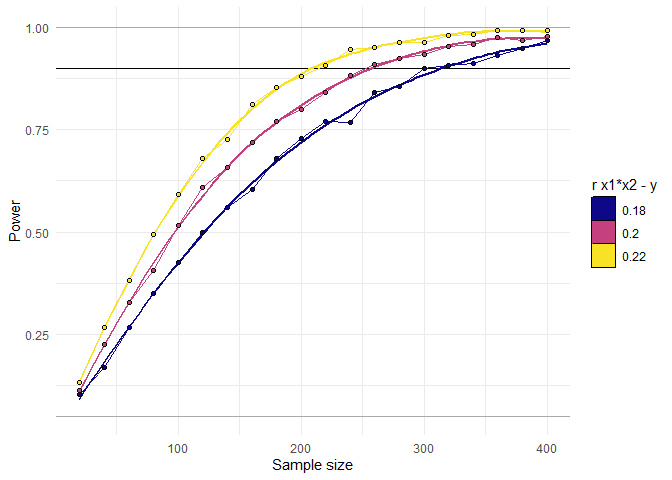
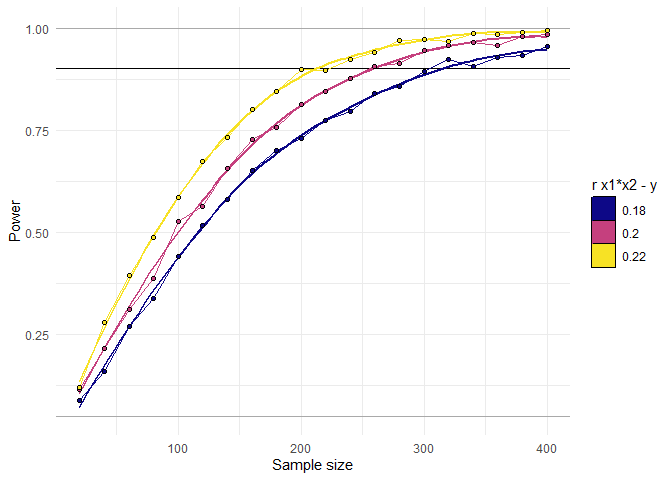
typos

diff --git a/README.md b/README.md
@@ -52,7 +52,6 @@ library(tictoc)
 tic()
 test_power<-power_interaction(
   n.iter = 1000,            # number of simulations per unique combination of input parameters
- # cl = 6,                   # number of cores for parallel processing (strongly recommended)
   alpha = 0.05,             # alpha, for the power analysis
   N = 350,                  # sample size
   r.x1x2.y = .15,           # interaction effect to test (correlation between x1*x2 and y)
@@ -62,24 +61,11 @@ test_power<-power_interaction(
 )
 #> [1] "Checking for errors in inputs..."
 #> [1] "Performing 1000 simulations"
-#> 
-#> Attaching package: 'dplyr'
-#> The following objects are masked from 'package:stats':
-#> 
-#>     filter, lag
-#> The following objects are masked from 'package:base':
-#> 
-#>     intersect, setdiff, setequal, union
-#> 
-#> Attaching package: 'MASS'
-#> The following object is masked from 'package:dplyr':
-#> 
-#>     select
 toc()
-#> 17.08 sec elapsed
+#> 15.2 sec elapsed
 test_power
 #>     pwr     min.lwr   min.upr   max.lwr   max.upr
-#> 1 0.802 -0.07739429 0.1942745 0.1966897 0.4550815
+#> 1 0.828 -0.08363714 0.2013017 0.1936626 0.4681784
 ```
 
 We see that we have \~80% power to detect the effect of interest.
@@ -152,7 +138,7 @@ test_power<-power_interaction(
 #> [1] "Checking for errors in inputs..."
 #> [1] "Performing 60000 simulations"
 toc()
-#> 237.32 sec elapsed
+#> 218.79 sec elapsed
 ```
 
 The results of this analysis can be hard to interpret just by looking at
@@ -172,9 +158,9 @@ power\_curve for each interaction effect size crosses our 90% line:
 ``` r
 power_estimate(test_power,power_target = .9,x = "N")
 #>   r.x1x2.y estimate
-#> 1     0.18 313.3005
-#> 2     0.20 248.2695
-#> 3     0.22 208.0945
+#> 1     0.18 309.3075
+#> 2     0.20 249.6749
+#> 3     0.22 206.3517
 ```
 
 We can see that depending on the specific effect size we hope to detect,
@@ -207,7 +193,7 @@ test_power<-power_interaction(
 #> [1] "Checking for errors in inputs..."
 #> [1] "Performing 14000 simulations"
 toc()
-#> 78.61 sec elapsed
+#> 86.05 sec elapsed
 ```
 
 As with the previous example, the results of this analysis can be hard
@@ -224,7 +210,7 @@ power\_curve for each interaction effect size crosses our 90% line:
 
 ``` r
 power_estimate(test_power,power_target = .9,x = "r.x1x2.y")
-#> [1] 0.1488084
+#> [1] 0.1478414
 ```
 
 We can use the function `plot_simple_slope()` to visualize the
@@ -255,7 +241,7 @@ library(tictoc)
 tic()
 
 test_power<-power_interaction(
-  n.iter = 10000,                  # number of simulations per unique combination of input parameters
+  n.iter = 1000,                  # number of simulations per unique combination of input parameters
   cl = 6,                   # number of cores for parallel processing (strongly recommended)
   alpha = 0.05,             # alpha, for the power analysis
   N = 450,                  # sample size
@@ -264,12 +250,12 @@ test_power<-power_interaction(
   r.x2.y = .1,              # correlation between x2 and y
   r.x1.x2 = .2,             # correlation between x1 and x2
   rel.x1 = seq(.4,1,.1),    # x1 reliability
-  rel.x2 = seq(.4,1,.1)     # x2 reliability
+  rel.x2 = seq(.4,1,.2)     # x2 reliability
 )
 #> [1] "Checking for errors in inputs..."
-#> [1] "Performing 490000 simulations"
+#> [1] "Performing 28000 simulations"
 toc()
-#> 2920.34 sec elapsed
+#> 157.92 sec elapsed
 plot_power_curve(test_power,power_target = .9)
 ```
 
@@ -284,21 +270,22 @@ that we have 90% power.
 
 So far, these examples have assumed that all variables are normally
 distributed. It is also possible to specify that a variable is binary
-(i.e. dichotomous), and variables can be skewed as well. By default, it
-is assumed that the specified correlations between variables are the
-population-level correlations of the *skewed* or *binary* variables
-(i.e. `adjust.correlations = T`). The ‘adjustment’ here is how much each
-correlation needs to be changed, so that the resulting correlation
-matrix post-variable-transformation matches the input correlation matrix
-(transforming a variable typically attenuates correlations with other
-variables, which can result in the analysis confounding *skew* and
-decreasing effect sizes). This is run prior to the main power analysis,
-and depending on the severity of the changes and size of the analysis,
-can be relatively time-consuming. If, on the other hand, the
-correlations between continuous normal variables is known, but in the
-analysis one or both variables are artificially dichotomized, set
-`adjust.correlations = F`. In the case where `y` is binary, all analyses
-and plots are run as logistic regressions.
+(i.e. dichotomous) and/or skewed. By default, it is assumed that the
+specified correlations between all variables are the population-level
+correlations of the *skewed* or *binary* variables. If this is the case,
+retain the defaul setting of `adjust.correlations = T`. The ‘adjustment’
+here is how much each correlation needs to be changed, so that the
+resulting correlation matrix post-variable-transformation matches the
+input correlation matrix. Transforming a variable typically attenuates
+correlations with other variables, which can result in the analysis
+confounding *skew* and decreasing effect sizes. The correlation
+adjustment is run prior to the main power analysis, and depending on the
+severity of the changes and size of the analysis, can be relatively
+time-consuming. If, on the other hand, the correlations between
+continuous normal variables is known, but in the analysis one or both
+variables are artificially skewed/dichotomized, set `adjust.correlations
+= F`. In the case where `y` is binary, all analyses and plots are run as
+logistic regressions.
 
 ``` r
 library(tictoc)
@@ -321,8 +308,8 @@ test_power<-power_interaction(
 #> [1] "Adjusting correlations for variable transformations..."
 #> [1] "Performing 9000 simulations"
 toc()
-#> 80.94 sec elapsed
-plot_power_curve(test_power,power_target = .9,x = "skew.x1",group = "skew.x2",facets = "r.x1.x2")
+#> 79.05 sec elapsed
+plot_power_curve(test_power,power_target = .9,x = "skew.x1")
 ```
 
 <img src="man/figures/README-example11-1.png" width="100%" />
@@ -333,10 +320,10 @@ increases.
 ### Example 6
 
 *Any* variable can be skewed and/or binary in these simulations. If a
-variable is binary, the skew can be computed from the proportion of 1:0
-using the `binary.p2skew` convenience function. Here is an example of a
-single data set where all variables are binary and x2 & y are skewed
-(the x1 0:1 ratio of 0.5 corresponds to a skew of 0).
+variable is binary, the skew can be computed from the probability of 1
+vs 0 using the `binary.p2skew` convenience function. Here is an example
+of a single data set where all variables are binary and x2 & y are
+skewed (the x1 probability of 0.5 corresponds to a skew of 0).
 
 ``` r
 set.seed(2020)
